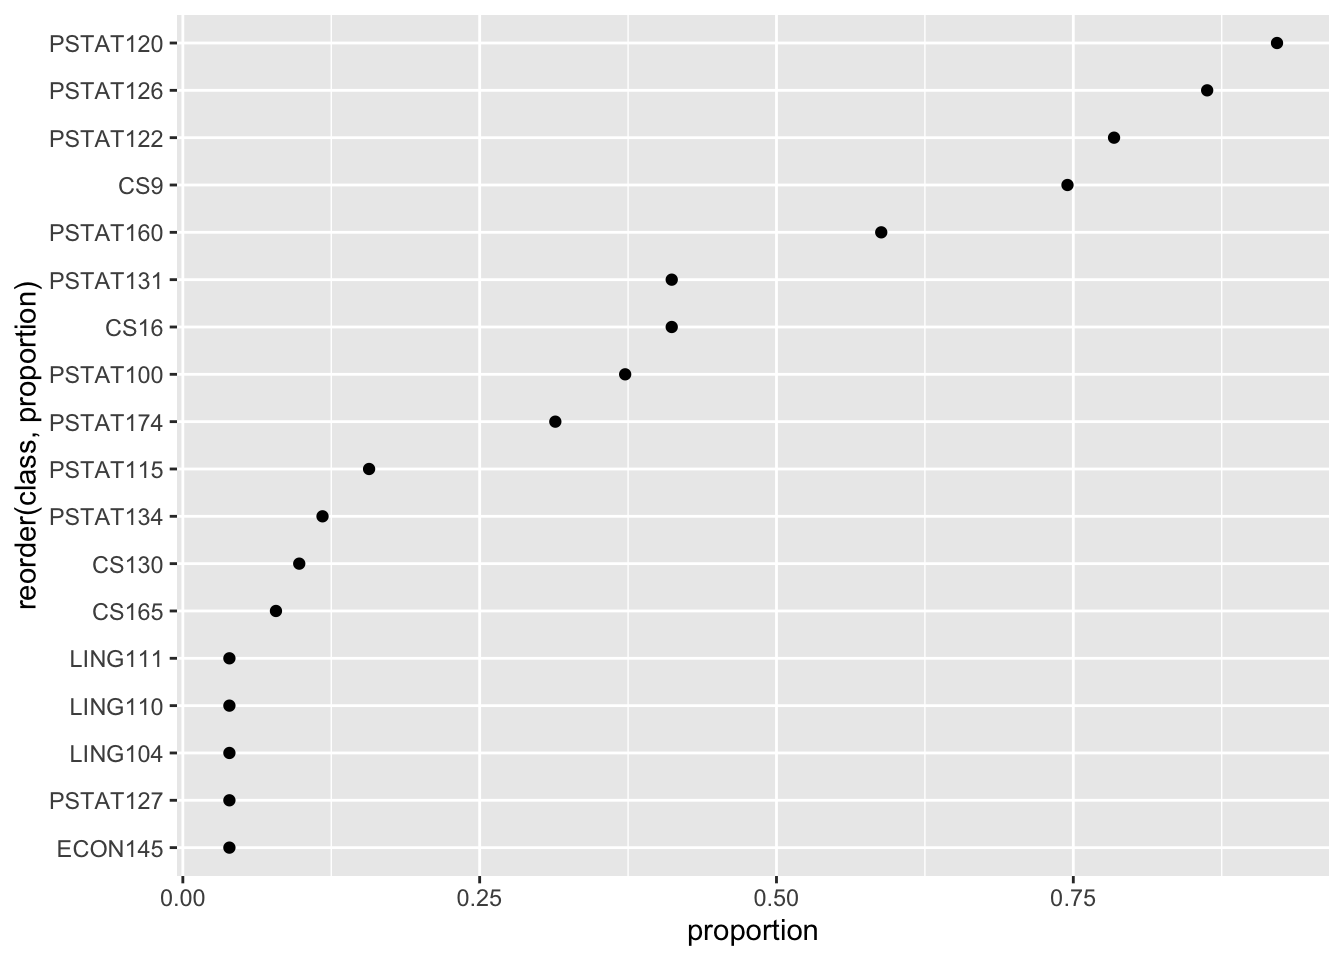
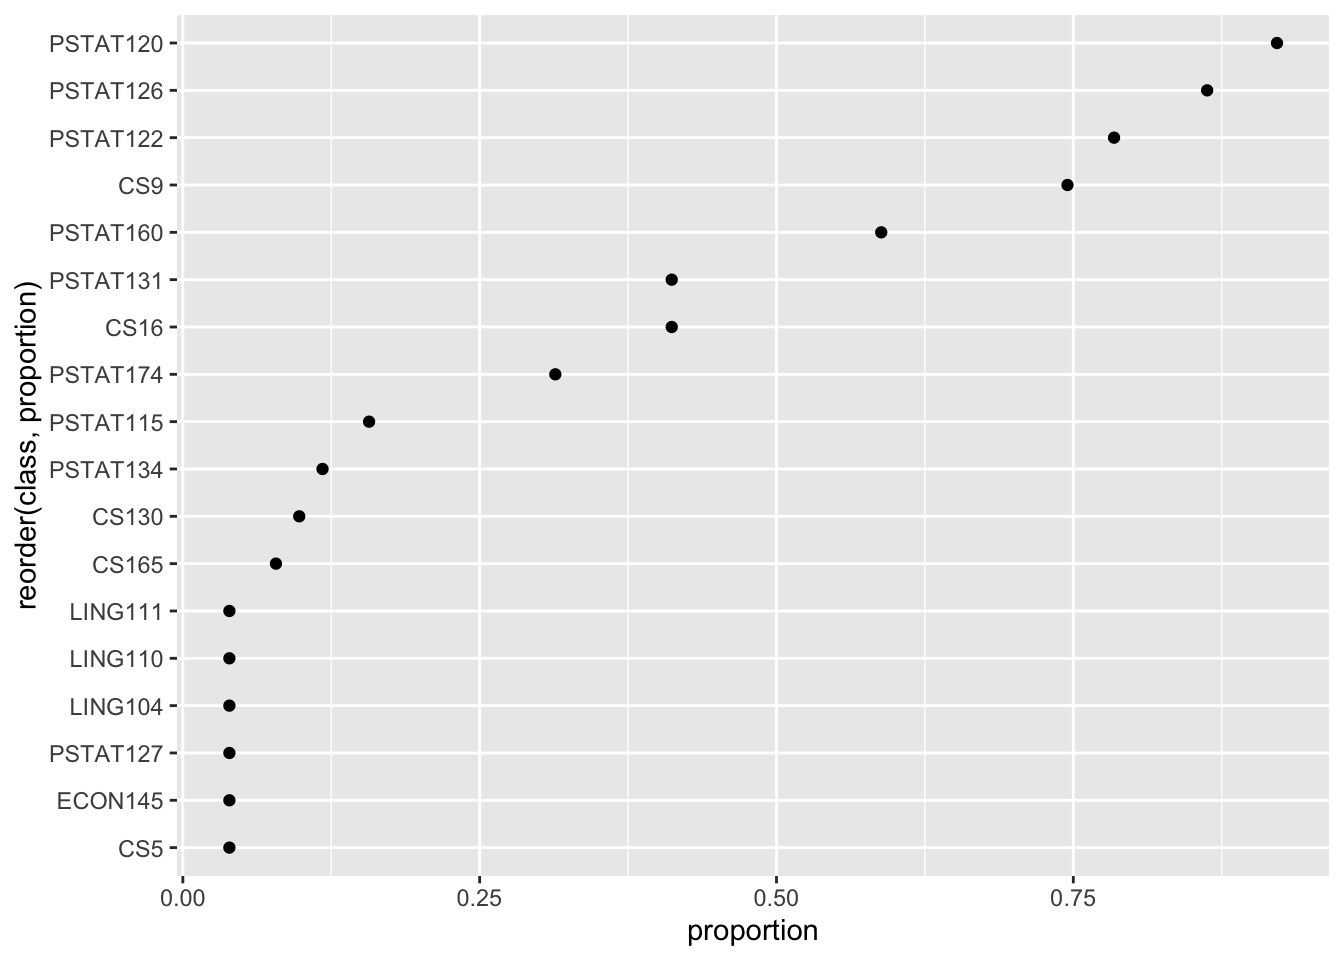
updates

diff --git a/docs/materials/labs/lab2-tidyverse/lab2-tidyverse.html b/docs/materials/labs/lab2-tidyverse/lab2-tidyverse.html
@@ -511,7 +511,7 @@ $short
 <div class="code-copy-outer-scaffold"><div class="sourceCode cell-code" id="cb78"><pre class="sourceCode r code-with-copy"><code class="sourceCode r"><span id="cb78-1"><a href="#cb78-1" aria-hidden="true" tabindex="-1"></a><span class="co"># print the data frame for inspection in the console</span></span>
 <span id="cb78-2"><a href="#cb78-2" aria-hidden="true" tabindex="-1"></a>background</span></code></pre></div><button title="Copy to Clipboard" class="code-copy-button"><i class="bi"></i></button></div>
 <div class="cell-output cell-output-stdout">
-<pre><code># A tibble: 51 × 30
+<pre><code># A tibble: 51 × 29
    response_id prog.prof prog.comf math.prof math.comf stat.prof stat.comf
          &lt;dbl&gt; &lt;chr&gt;         &lt;dbl&gt; &lt;chr&gt;         &lt;dbl&gt; &lt;chr&gt;         &lt;dbl&gt;
  1           1 adv               5 int               4 adv               5
@@ -525,12 +525,11 @@ $short
  9          10 int               4 int               4 adv               4
 10          11 int               4 int               4 beg               3
 # ℹ 41 more rows
-# ℹ 23 more variables: updv.num &lt;chr&gt;, dom &lt;chr&gt;,
-#   do_you_have_any_preference_regarding_working_on_an_industry_project_or_a_research_lab_project &lt;chr&gt;,
-#   PSTAT100 &lt;dbl&gt;, PSTAT115 &lt;dbl&gt;, PSTAT120 &lt;dbl&gt;, PSTAT122 &lt;dbl&gt;,
-#   PSTAT126 &lt;dbl&gt;, PSTAT131 &lt;dbl&gt;, PSTAT160 &lt;dbl&gt;, PSTAT174 &lt;dbl&gt;, CS9 &lt;dbl&gt;,
-#   CS16 &lt;dbl&gt;, LING104 &lt;dbl&gt;, LING110 &lt;dbl&gt;, LING111 &lt;dbl&gt;, CS130 &lt;dbl&gt;,
-#   CS165 &lt;dbl&gt;, ECON145 &lt;dbl&gt;, PSTAT127 &lt;dbl&gt;, PSTAT134 &lt;dbl&gt;, CS5 &lt;dbl&gt;, …</code></pre>
+# ℹ 22 more variables: updv.num &lt;chr&gt;, dom &lt;chr&gt;, PSTAT100 &lt;dbl&gt;,
+#   PSTAT115 &lt;dbl&gt;, PSTAT120 &lt;dbl&gt;, PSTAT122 &lt;dbl&gt;, PSTAT126 &lt;dbl&gt;,
+#   PSTAT131 &lt;dbl&gt;, PSTAT160 &lt;dbl&gt;, PSTAT174 &lt;dbl&gt;, CS9 &lt;dbl&gt;, CS16 &lt;dbl&gt;,
+#   LING104 &lt;dbl&gt;, LING110 &lt;dbl&gt;, LING111 &lt;dbl&gt;, CS130 &lt;dbl&gt;, CS165 &lt;dbl&gt;,
+#   ECON145 &lt;dbl&gt;, PSTAT127 &lt;dbl&gt;, PSTAT134 &lt;dbl&gt;, CS5 &lt;dbl&gt;, rsrch &lt;lgl&gt;</code></pre>
 </div>
 <div class="code-copy-outer-scaffold"><div class="sourceCode cell-code" id="cb80"><pre class="sourceCode r code-with-copy"><code class="sourceCode r"><span id="cb80-1"><a href="#cb80-1" aria-hidden="true" tabindex="-1"></a><span class="co"># open as a spreadsheet in a separate viewer</span></span>
 <span id="cb80-2"><a href="#cb80-2" aria-hidden="true" tabindex="-1"></a><span class="fu">view</span>(background)</span></code></pre></div><button title="Copy to Clipboard" class="code-copy-button"><i class="bi"></i></button></div>
@@ -598,7 +597,7 @@ $short
 <span id="cb86-2"><a href="#cb86-2" aria-hidden="true" tabindex="-1"></a>background <span class="sc">%&gt;%</span></span>
 <span id="cb86-3"><a href="#cb86-3" aria-hidden="true" tabindex="-1"></a>  <span class="fu">filter</span>(math.comf <span class="sc">&gt;</span> <span class="dv">3</span>)</span></code></pre></div><button title="Copy to Clipboard" class="code-copy-button"><i class="bi"></i></button></div>
 <div class="cell-output cell-output-stdout">
-<pre><code># A tibble: 37 × 30
+<pre><code># A tibble: 37 × 29
    response_id prog.prof prog.comf math.prof math.comf stat.prof stat.comf
          &lt;dbl&gt; &lt;chr&gt;         &lt;dbl&gt; &lt;chr&gt;         &lt;dbl&gt; &lt;chr&gt;         &lt;dbl&gt;
  1           1 adv               5 int               4 adv               5
@@ -612,12 +611,11 @@ $short
  9          14 adv               4 adv               5 adv               4
 10          17 int               3 adv               5 adv               5
 # ℹ 27 more rows
-# ℹ 23 more variables: updv.num &lt;chr&gt;, dom &lt;chr&gt;,
-#   do_you_have_any_preference_regarding_working_on_an_industry_project_or_a_research_lab_project &lt;chr&gt;,
-#   PSTAT100 &lt;dbl&gt;, PSTAT115 &lt;dbl&gt;, PSTAT120 &lt;dbl&gt;, PSTAT122 &lt;dbl&gt;,
-#   PSTAT126 &lt;dbl&gt;, PSTAT131 &lt;dbl&gt;, PSTAT160 &lt;dbl&gt;, PSTAT174 &lt;dbl&gt;, CS9 &lt;dbl&gt;,
-#   CS16 &lt;dbl&gt;, LING104 &lt;dbl&gt;, LING110 &lt;dbl&gt;, LING111 &lt;dbl&gt;, CS130 &lt;dbl&gt;,
-#   CS165 &lt;dbl&gt;, ECON145 &lt;dbl&gt;, PSTAT127 &lt;dbl&gt;, PSTAT134 &lt;dbl&gt;, CS5 &lt;dbl&gt;, …</code></pre>
+# ℹ 22 more variables: updv.num &lt;chr&gt;, dom &lt;chr&gt;, PSTAT100 &lt;dbl&gt;,
+#   PSTAT115 &lt;dbl&gt;, PSTAT120 &lt;dbl&gt;, PSTAT122 &lt;dbl&gt;, PSTAT126 &lt;dbl&gt;,
+#   PSTAT131 &lt;dbl&gt;, PSTAT160 &lt;dbl&gt;, PSTAT174 &lt;dbl&gt;, CS9 &lt;dbl&gt;, CS16 &lt;dbl&gt;,
+#   LING104 &lt;dbl&gt;, LING110 &lt;dbl&gt;, LING111 &lt;dbl&gt;, CS130 &lt;dbl&gt;, CS165 &lt;dbl&gt;,
+#   ECON145 &lt;dbl&gt;, PSTAT127 &lt;dbl&gt;, PSTAT134 &lt;dbl&gt;, CS5 &lt;dbl&gt;, rsrch &lt;lgl&gt;</code></pre>
 </div>
 </div>
 <p><strong><em>select</em></strong> – select a subset of columns from a data frame</p>
@@ -661,7 +659,7 @@ $short
 <span id="cb92-2"><a href="#cb92-2" aria-hidden="true" tabindex="-1"></a>background <span class="sc">%&gt;%</span></span>
 <span id="cb92-3"><a href="#cb92-3" aria-hidden="true" tabindex="-1"></a>  <span class="fu">mutate</span>(<span class="at">avg.comf =</span> (math.comf <span class="sc">+</span> prog.comf <span class="sc">+</span> stat.comf)<span class="sc">/</span><span class="dv">3</span>)</span></code></pre></div><button title="Copy to Clipboard" class="code-copy-button"><i class="bi"></i></button></div>
 <div class="cell-output cell-output-stdout">
-<pre><code># A tibble: 51 × 31
+<pre><code># A tibble: 51 × 30
    response_id prog.prof prog.comf math.prof math.comf stat.prof stat.comf
          &lt;dbl&gt; &lt;chr&gt;         &lt;dbl&gt; &lt;chr&gt;         &lt;dbl&gt; &lt;chr&gt;         &lt;dbl&gt;
  1           1 adv               5 int               4 adv               5
@@ -675,12 +673,12 @@ $short
  9          10 int               4 int               4 adv               4
 10          11 int               4 int               4 beg               3
 # ℹ 41 more rows
-# ℹ 24 more variables: updv.num &lt;chr&gt;, dom &lt;chr&gt;,
-#   do_you_have_any_preference_regarding_working_on_an_industry_project_or_a_research_lab_project &lt;chr&gt;,
-#   PSTAT100 &lt;dbl&gt;, PSTAT115 &lt;dbl&gt;, PSTAT120 &lt;dbl&gt;, PSTAT122 &lt;dbl&gt;,
-#   PSTAT126 &lt;dbl&gt;, PSTAT131 &lt;dbl&gt;, PSTAT160 &lt;dbl&gt;, PSTAT174 &lt;dbl&gt;, CS9 &lt;dbl&gt;,
-#   CS16 &lt;dbl&gt;, LING104 &lt;dbl&gt;, LING110 &lt;dbl&gt;, LING111 &lt;dbl&gt;, CS130 &lt;dbl&gt;,
-#   CS165 &lt;dbl&gt;, ECON145 &lt;dbl&gt;, PSTAT127 &lt;dbl&gt;, PSTAT134 &lt;dbl&gt;, CS5 &lt;dbl&gt;, …</code></pre>
+# ℹ 23 more variables: updv.num &lt;chr&gt;, dom &lt;chr&gt;, PSTAT100 &lt;dbl&gt;,
+#   PSTAT115 &lt;dbl&gt;, PSTAT120 &lt;dbl&gt;, PSTAT122 &lt;dbl&gt;, PSTAT126 &lt;dbl&gt;,
+#   PSTAT131 &lt;dbl&gt;, PSTAT160 &lt;dbl&gt;, PSTAT174 &lt;dbl&gt;, CS9 &lt;dbl&gt;, CS16 &lt;dbl&gt;,
+#   LING104 &lt;dbl&gt;, LING110 &lt;dbl&gt;, LING111 &lt;dbl&gt;, CS130 &lt;dbl&gt;, CS165 &lt;dbl&gt;,
+#   ECON145 &lt;dbl&gt;, PSTAT127 &lt;dbl&gt;, PSTAT134 &lt;dbl&gt;, CS5 &lt;dbl&gt;, rsrch &lt;lgl&gt;,
+#   avg.comf &lt;dbl&gt;</code></pre>
 </div>
 </div>
 <p>These operations can be chained together, for example:</p>
@@ -787,7 +785,7 @@ $short
 <span id="cb104-2"><a href="#cb104-2" aria-hidden="true" tabindex="-1"></a>background <span class="sc">%&gt;%</span></span>
 <span id="cb104-3"><a href="#cb104-3" aria-hidden="true" tabindex="-1"></a>  <span class="fu">group_by</span>(stat.prof)</span></code></pre></div><button title="Copy to Clipboard" class="code-copy-button"><i class="bi"></i></button></div>
 <div class="cell-output cell-output-stdout">
-<pre><code># A tibble: 51 × 30
+<pre><code># A tibble: 51 × 29
 # Groups:   stat.prof [3]
    response_id prog.prof prog.comf math.prof math.comf stat.prof stat.comf
          &lt;dbl&gt; &lt;chr&gt;         &lt;dbl&gt; &lt;chr&gt;         &lt;dbl&gt; &lt;chr&gt;         &lt;dbl&gt;
@@ -802,12 +800,11 @@ $short
  9          10 int               4 int               4 adv               4
 10          11 int               4 int               4 beg               3
 # ℹ 41 more rows
-# ℹ 23 more variables: updv.num &lt;chr&gt;, dom &lt;chr&gt;,
-#   do_you_have_any_preference_regarding_working_on_an_industry_project_or_a_research_lab_project &lt;chr&gt;,
-#   PSTAT100 &lt;dbl&gt;, PSTAT115 &lt;dbl&gt;, PSTAT120 &lt;dbl&gt;, PSTAT122 &lt;dbl&gt;,
-#   PSTAT126 &lt;dbl&gt;, PSTAT131 &lt;dbl&gt;, PSTAT160 &lt;dbl&gt;, PSTAT174 &lt;dbl&gt;, CS9 &lt;dbl&gt;,
-#   CS16 &lt;dbl&gt;, LING104 &lt;dbl&gt;, LING110 &lt;dbl&gt;, LING111 &lt;dbl&gt;, CS130 &lt;dbl&gt;,
-#   CS165 &lt;dbl&gt;, ECON145 &lt;dbl&gt;, PSTAT127 &lt;dbl&gt;, PSTAT134 &lt;dbl&gt;, CS5 &lt;dbl&gt;, …</code></pre>
+# ℹ 22 more variables: updv.num &lt;chr&gt;, dom &lt;chr&gt;, PSTAT100 &lt;dbl&gt;,
+#   PSTAT115 &lt;dbl&gt;, PSTAT120 &lt;dbl&gt;, PSTAT122 &lt;dbl&gt;, PSTAT126 &lt;dbl&gt;,
+#   PSTAT131 &lt;dbl&gt;, PSTAT160 &lt;dbl&gt;, PSTAT174 &lt;dbl&gt;, CS9 &lt;dbl&gt;, CS16 &lt;dbl&gt;,
+#   LING104 &lt;dbl&gt;, LING110 &lt;dbl&gt;, LING111 &lt;dbl&gt;, CS130 &lt;dbl&gt;, CS165 &lt;dbl&gt;,
+#   ECON145 &lt;dbl&gt;, PSTAT127 &lt;dbl&gt;, PSTAT134 &lt;dbl&gt;, CS5 &lt;dbl&gt;, rsrch &lt;lgl&gt;</code></pre>
 </div>
 </div>
 <p>Sometimes it can be helpful to simply count the observations in each group:</p>
@@ -968,24 +965,24 @@ $short
 <pre><code># A tibble: 18 × 2
    class    proportion
    &lt;chr&gt;         &lt;dbl&gt;
- 1 PSTAT100     0.373 
- 2 PSTAT115     0.157 
- 3 PSTAT120     0.922 
- 4 PSTAT122     0.784 
- 5 PSTAT126     0.863 
- 6 PSTAT131     0.412 
- 7 PSTAT160     0.588 
- 8 PSTAT174     0.314 
- 9 CS9          0.745 
-10 CS16         0.412 
-11 LING104      0.0392
-12 LING110      0.0392
-13 LING111      0.0392
-14 CS130        0.0980
-15 CS165        0.0784
-16 ECON145      0.0392
-17 PSTAT127     0.0392
-18 PSTAT134     0.118 </code></pre>
+ 1 PSTAT115     0.157 
+ 2 PSTAT120     0.922 
+ 3 PSTAT122     0.784 
+ 4 PSTAT126     0.863 
+ 5 PSTAT131     0.412 
+ 6 PSTAT160     0.588 
+ 7 PSTAT174     0.314 
+ 8 CS9          0.745 
+ 9 CS16         0.412 
+10 LING104      0.0392
+11 LING110      0.0392
+12 LING111      0.0392
+13 CS130        0.0980
+14 CS165        0.0784
+15 ECON145      0.0392
+16 PSTAT127     0.0392
+17 PSTAT134     0.118 
+18 CS5          0.0392</code></pre>
 </div>
 </div>
 <p>We could report the results in a table, in which case perhaps arranging in descending order may be helpful:</p>
@@ -1002,17 +999,17 @@ $short
  5 PSTAT160     0.588 
  6 PSTAT131     0.412 
  7 CS16         0.412 
- 8 PSTAT100     0.373 
- 9 PSTAT174     0.314 
-10 PSTAT115     0.157 
-11 PSTAT134     0.118 
-12 CS130        0.0980
-13 CS165        0.0784
-14 LING104      0.0392
-15 LING110      0.0392
-16 LING111      0.0392
-17 ECON145      0.0392
-18 PSTAT127     0.0392</code></pre>
+ 8 PSTAT174     0.314 
+ 9 PSTAT115     0.157 
+10 PSTAT134     0.118 
+11 CS130        0.0980
+12 CS165        0.0784
+13 LING104      0.0392
+14 LING110      0.0392
+15 LING111      0.0392
+16 ECON145      0.0392
+17 PSTAT127     0.0392
+18 CS5          0.0392</code></pre>
 </div>
 </div>
 <p>Let’s say we’d rather plot this data. We’ll put the course number on one axis and the proportion of students who took it on the other.</p>

diff --git a/docs/materials/slides/week2-workshop.html b/docs/materials/slides/week2-workshop.html
@@ -9,7 +9,7 @@
 <link href="../../site_libs/quarto-html/quarto-syntax-highlighting-dc55a5b9e770e841cd82e46aadbfb9b0.css" rel="stylesheet" id="quarto-text-highlighting-styles"><meta charset="utf-8">
   <meta name="generator" content="quarto-1.8.24">
 
-  <meta name="author" content="Trevor Ruiz">
+  <meta name="author" content="Dr Coburn">
   <title>PSTAT 197A – Group assignment workshops</title>
   <meta name="apple-mobile-web-app-capable" content="yes">
   <meta name="apple-mobile-web-app-status-bar-style" content="black-translucent">
@@ -128,12 +128,12 @@
 
 <section id="title-slide" class="quarto-title-block center">
   <h1 class="title">Group assignment workshops</h1>
-  <p class="subtitle">PSTAT197A/CMPSC190DD Fall 2022</p>
+  <p class="subtitle">PSTAT197A/CMPSC190DD Fall 2025</p>
 
 <div class="quarto-title-authors">
 <div class="quarto-title-author">
 <div class="quarto-title-author-name">
-Trevor Ruiz 
+Dr Coburn 
 </div>
         <p class="quarto-title-affiliation">
             UCSB
@@ -178,7 +178,7 @@ Trevor Ruiz
 <section id="assignment-set-up" class="slide level2">
 <h2>Assignment set-up</h2>
 <ol type="1">
-<li class="fragment">accept GH classroom assignment <a href="https://classroom.github.com/a/d-4iOFtd">here</a>; this will create/add your team repo</li>
+<li class="fragment">accept GH classroom assignment <a href="https://classroom.github.com/a/iG-05GhY">here</a>; this will create/add your team repo</li>
 <li class="fragment">clone repo to local</li>
 <li class="fragment">review repo contents:
 <ul>
@@ -197,10 +197,10 @@ Trevor Ruiz
 <li class="fragment"><p>a rendered <code>results/report.html</code> file</p></li>
 </ul>
 <div class="fragment">
-<p>Please make final commits by <strong><em>Friday, October 14, 11:59pm PST.</em></strong></p>
+<p>Please make final commits by <strong><em>Sunday, October 20, 11:59pm PST.</em></strong></p>
 </div>
 <div class="fragment">
-<p>Recall there is a 24-hour grace period; any commits submitted after Saturday 11:59pm may not receive review.</p>
+<p>Recall there is a 24-hour grace period; any commits submitted after Monday, October 21st, 11:59pm may not receive review.</p>
 </div>
 </section>
 <section id="resources" class="slide level2">
@@ -214,8 +214,9 @@ Trevor Ruiz
 </section>
 <section id="workshopping-today" class="slide level2">
 <h2>Workshopping today</h2>
-<p>Try to accomplish three goals:</p>
+<p>Try to accomplish four goals:</p>
 <ol type="1">
+<li class="fragment">clone the repository and create a script file</li>
 <li class="fragment">pool ideas for questions or themes to explore in the data</li>
 <li class="fragment">pair up, divide work, and assign tasks</li>
 <li class="fragment">agree on a communication plan for finishing work
@@ -229,8 +230,9 @@ Trevor Ruiz
 </section>
     </div>
   <div class="quarto-auto-generated-content" style="display: none;">
+<p><img src="img/ucsbds_hex.png" class="slide-logo"></p>
 <div class="footer footer-default">
-
+<p>PSTAT197A/CMPSC190DD Fall 2025</p>
 </div>
 </div></div>
 

diff --git a/docs/materials/course-materials.html b/docs/materials/course-materials.html
@@ -263,9 +263,7 @@ div.csl-indent {
 <ul>
 <li><p><strong><em>Tuesday meeting:</em></strong> Introducing class intake survey data <a href="../materials/slides/week2-classdata.html">[slides</a>]</p></li>
 <li><p><strong><em>Section meeting:</em></strong> tidyverse basics <a href="../materials/labs/lab2-tidyverse/lab2-tidyverse.html">[activity</a>]</p></li>
-</ul>
-<!-- -   ***Thursday meeting:*** planning group work for analysis of survey data \[[slides](slides/week2-workshop.qmd)\] -->
-<ul>
+<li><p><strong><em>Thursday meeting:</em></strong> planning group work for analysis of survey data [<a href="../materials/slides/week2-workshop.html">slides</a>]</p></li>
 <li><p><strong><em>Assignments:</em></strong></p>
 <ul>
 <li>first team assignment due Sunday, October 20, 11:59 PM PST [<a href="https://classroom.github.com/a/iG-05GhY">accept via GH classroom here</a>]</li>
